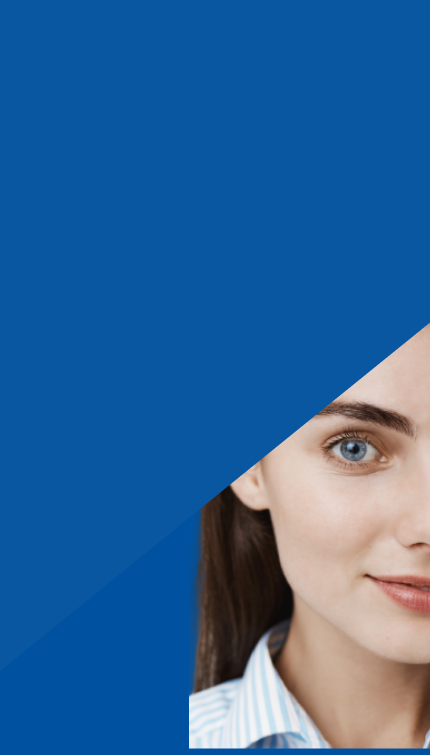
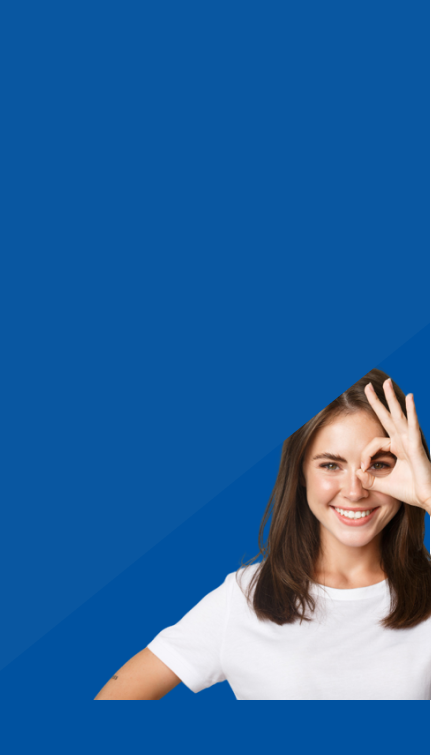
Completed ticket 675

Changed region(s): [[0.2116, 0.0, 1.0, 1.0]]

diff --git a/src/components/page-sections/Masthead/Masthead3.tsx b/src/components/page-sections/Masthead/Masthead3.tsx
@@ -20,7 +20,7 @@ interface Masthead3Props {
  */
 const Masthead3 = ({ title, subTitle, image }: Masthead3Props): JSX.Element => {
     return (
-        <div className="relative grid min-h-[74rem] content-start md:min-h-max md:grid-cols-2">
+        <div className="relative grid min-h-[74rem] content-start md:min-h-max md:grid-cols-2 md:gap-12 lg:gap-20 xl:grid-cols-[auto_1fr] xl:gap-32">
             <Image
                 src={MastheadImageSmall}
                 alt=""
@@ -39,12 +39,12 @@ const Masthead3 = ({ title, subTitle, image }: Masthead3Props): JSX.Element => {
 
             <Image
                 src={image}
-                width={989}
-                height={735}
-                quality={100}
+                width={810}
+                height={600}
+                unoptimized
                 priority={true}
                 alt=""
-                className="col-start-2 row-span-2 row-start-1 hidden self-stretch object-cover object-[-25rem_center] md:block lg:object-[-12rem_center] xl:justify-self-end xl:object-center"
+                className="col-start-2 row-span-2 row-start-2 hidden self-stretch object-cover md:block md:justify-self-end xl:row-start-1 xl:self-end xl:justify-self-end xl:object-center"
             />
 
             <div className="grid content-start px-8 pt-12 md:pt-24 lg:pl-12 xl:pt-40 xl:pl-[calc(calc(100vw_-_var(--container-width))_/_2)]">
@@ -90,7 +90,7 @@ const Masthead3 = ({ title, subTitle, image }: Masthead3Props): JSX.Element => {
             <Link
                 href="/suitability-check"
                 title="Free suitability check"
-                className="sitemap-link group/link mt-12 grid w-full max-w-[55.5rem] grid-cols-[auto_1fr] content-start gap-1 rounded-tr-[6rem] bg-[#003E79] py-10 px-8 pr-16 lg:pl-12 xl:col-span-2 xl:col-start-1 xl:row-start-2 xl:self-end xl:pl-[calc(calc(100vw_-_var(--container-width))_/_2)] 2xl:max-w-[80rem]"
+                className="sitemap-link group/link mt-12 grid w-full max-w-[55.5rem] grid-cols-[auto_1fr] content-start gap-1 rounded-tr-[6rem] bg-[#003E79] py-10 px-8 pr-16 md:row-span-2 md:self-end lg:pl-12 xl:col-span-2 xl:col-start-1 xl:row-span-1 xl:row-start-2 xl:self-end xl:pl-[calc(calc(100vw_-_var(--container-width))_/_2)] 2xl:max-w-[80rem]"
             >
                 <span className="flex items-center justify-start gap-4">
                     <span className="h-[1.2rem] w-[1.2rem] rounded-full bg-[#00BFFF]"></span>
@@ -122,7 +122,7 @@ const Masthead3 = ({ title, subTitle, image }: Masthead3Props): JSX.Element => {
  */
 const Reviews = (): JSX.Element => {
     return (
-        <div className="relative z-[2] mx-8 mt-24 grid w-full max-w-[22.7rem] place-items-center gap-7 overflow-hidden rounded-[0.5rem] bg-white p-8 shadow-shadow1 md:col-start-2 md:row-span-2 md:row-start-1 md:max-w-[36.1rem] md:self-end lg:self-center xl:justify-self-center xl:px-0 xl:pt-24 xl:pb-0">
+        <div className="relative z-[2] mx-8 mt-24 grid w-full max-w-[22.7rem] place-items-center gap-7 overflow-hidden rounded-[0.5rem] bg-white p-8 shadow-shadow1 md:mx-0 md:max-w-[36.1rem] md:self-end lg:col-start-2 lg:row-span-2 lg:row-start-1 lg:self-start xl:mt-[10rem] xl:justify-self-start xl:px-0 xl:pt-24 xl:pb-0">
             <div className="flex flex-wrap items-end justify-start gap-10 md:justify-center">
                 {/* Review 1 */}
                 <div className="grid grid-cols-1 place-items-center gap-4 rounded-[0.5rem] md:w-full md:max-w-[19.8rem] md:py-4 md:shadow-shadow1 xl:gap-2">

diff --git a/src/pages/icl/index.tsx b/src/pages/icl/index.tsx
@@ -505,9 +505,7 @@ export default function Icl({ seo, yoastJson, data }: IclProps): JSX.Element {
                         }
                         descriptions={
                             (data?.sustainability_section?.plastic_free_life?.descriptions?.length &&
-                                stringArrayToElementArray(
-                                    data?.sustainability_section?.plastic_free_life?.descriptions
-                                )) || [
+                                data?.sustainability_section?.plastic_free_life?.descriptions) || [
                                 `The most sustainable, green living lifestyle is when you have a plastic free eye-style.
                                  When you have Implantable Contact Lenses you are saying goodbye to the continuous plastic
                                  waste produced by glasses and contact lenses!`
@@ -535,19 +533,17 @@ export default function Icl({ seo, yoastJson, data }: IclProps): JSX.Element {
                         }
                         descriptions={
                             (data?.sustainability_section?.gift_of_a_tree?.descriptions?.length &&
-                                stringArrayToElementArray(
-                                    data?.sustainability_section?.gift_of_a_tree?.descriptions
-                                )) || [
+                                data?.sustainability_section?.gift_of_a_tree?.descriptions) || [
                                 `When undergoing laser eye surgery, you may not realize it but you are already making a positive
                          difference to the environment. For every 10 years of contact lens wearing the amount of plastic
                           that ends up in the ocean is roughly the same as your own body weight.`,
-                                <span className="font-latoBold text-[2rem] normal-case leading-[2.4rem]">
+                                `<span class="font-latoBold text-[2rem] normal-case leading-[2.4rem]">
                                     Our gift to you…
-                                </span>,
+                                </span>`,
                                 `We want to take our impact on the environment a step further and this is where the gift of a tree comes in!`,
-                                <span className="font-latoBold text-[2rem] normal-case leading-[2.4rem]">
+                                `<span class="font-latoBold text-[2rem] normal-case leading-[2.4rem]">
                                     Here at My-iClinic we give all of our laser patients a real forest tree!
-                                </span>,
+                                </span>`,
                                 `Over your tree’s long life, you can visit it, introduce it to your family and track its growth and
                          value! Over the lifetime of the tree, it will more than offset the carbon you've used with your
                           contacts/glasses. When the tree is harvested, its value will be yours and new trees are planted

diff --git a/src/pages/lasik-london/index.tsx b/src/pages/lasik-london/index.tsx
@@ -507,9 +507,7 @@ export default function Lasik({ seo, yoastJson, data }: LasikProps): JSX.Element
                         }
                         descriptions={
                             (data?.sustainability_section?.plastic_free_life?.descriptions?.length &&
-                                stringArrayToElementArray(
-                                    data?.sustainability_section?.plastic_free_life?.descriptions
-                                )) || [
+                                data?.sustainability_section?.plastic_free_life?.descriptions) || [
                                 `The most sustainable, green living lifestyle is when you have a plastic free eye-style. When you have Implantable Contact Lenses you are saying goodbye to the continuous plastic waste produced by glasses and contact lenses!`
                             ]
                         }
@@ -571,19 +569,17 @@ export default function Lasik({ seo, yoastJson, data }: LasikProps): JSX.Element
                         }
                         descriptions={
                             (data?.sustainability_section?.gift_of_a_tree?.descriptions?.length &&
-                                stringArrayToElementArray(
-                                    data?.sustainability_section?.gift_of_a_tree?.descriptions
-                                )) || [
+                                data?.sustainability_section?.gift_of_a_tree?.descriptions) || [
                                 `When undergoing laser eye surgery, you may not realize it but you are already making a positive
                          difference to the environment. For every 10 years of contact lens wearing the amount of plastic
                           that ends up in the ocean is roughly the same as your own body weight.`,
-                                <span className="font-latoBold text-[2rem] normal-case leading-[2.4rem]">
+                                ` <span class="font-latoBold text-[2rem] normal-case leading-[2.4rem]">
                                     Our gift to you…
-                                </span>,
+                                </span>`,
                                 `We want to take our impact on the environment a step further and this is where the gift of a tree comes in!`,
-                                <span className="font-latoBold text-[2rem] normal-case leading-[2.4rem]">
+                                ` <span class="font-latoBold text-[2rem] normal-case leading-[2.4rem]">
                                     Here at My-iClinic we give all of our laser patients a real forest tree!
-                                </span>,
+                                </span>`,
                                 `Over your tree’s long life, you can visit it, introduce it to your family and track its growth and
                          value! Over the lifetime of the tree, it will more than offset the carbon you've used with your
                           contacts/glasses. When the tree is harvested, its value will be yours and new trees are planted

diff --git a/src/components/Header/NavLink.tsx b/src/components/Header/NavLink.tsx
@@ -32,7 +32,7 @@ const NavLink = ({ menu, router }: NavLinkInterface): JSX.Element => {
             }`}
         >
             {/* Parent menus */}
-            <ParentMenuItem router={router} menu={menu}/>
+            <ParentMenuItem router={router} menu={menu} />
 
             {/* Submenus */}
             {menu.submenu?.length && (
@@ -45,7 +45,7 @@ const NavLink = ({ menu, router }: NavLinkInterface): JSX.Element => {
                         />
                     )}
 
-                    {menu.slug === 'vision-correction' && <SubMenu router={router} submenu={menu.submenu}/>}
+                    {menu.slug === 'vision-correction' && <SubMenu router={router} submenu={menu.submenu} />}
 
                     {menu.slug === 'eye-treatments' && (
                         <EyeTreatments
@@ -89,7 +89,7 @@ const NavLink = ({ menu, router }: NavLinkInterface): JSX.Element => {
                                             name: 'Financing your treatment',
                                             url: '/pricing-and-financing/financing-your-treatment',
                                             slug: 'pricing-and-financing/financing-your-treatment',
-                                            metaDescription: 'Keep existing'
+                                            metaDescription: 'Tailored plans to suit your budget'
                                         }
                                     ]
                                 },
@@ -154,7 +154,7 @@ const NavLink = ({ menu, router }: NavLinkInterface): JSX.Element => {
                         />
                     )}
 
-                    {menu.slug === 'our-specialists' && <OurSpecialists router={router}/>}
+                    {menu.slug === 'our-specialists' && <OurSpecialists router={router} />}
                 </>
             )}
         </li>
@@ -179,7 +179,7 @@ const ParentMenuItem = ({ menu, router }: { menu: NavMenuType; router: NextRoute
             {menu.submenu ? (
                 <>
                     {menu.slug === 'our-specialists' ? (
-                        <SpecialistMenu isMenuActive={isMenuActive}/>
+                        <SpecialistMenu isMenuActive={isMenuActive} />
                     ) : (
                         <>
                             <span
@@ -211,8 +211,7 @@ const ParentMenuItem = ({ menu, router }: { menu: NavMenuType; router: NextRoute
                     {menu.name}
 
                     {isMenuActive && (
-                        <span
-                            className="absolute left-0 top-full h-1 w-full translate-y-4 rounded-full bg-[#9B9FA1]"></span>
+                        <span className="absolute left-0 top-full h-1 w-full translate-y-4 rounded-full bg-[#9B9FA1]"></span>
                     )}
                 </Link>
             )}

diff --git a/src/components/page-sections/Sustainibility/ClimateChange.tsx b/src/components/page-sections/Sustainibility/ClimateChange.tsx
@@ -1,5 +1,4 @@
 import { SideImageSection } from '@/components/page-sections';
-import { stringArrayToElementArray } from '@/utils/apiHelpers';
 
 interface ClimateChangeProps {
     h2Heading: string | undefined;
@@ -40,27 +39,27 @@ const ClimateChange = ({
             }}
             imageYPosition="bottom"
             descriptions={
-                (descriptions?.length && stringArrayToElementArray(descriptions)) || [
-                    <span className="block font-latoBold text-[2rem] leading-[2.4rem] text-heading md:mt-24">
+                (descriptions?.length && descriptions) || [
+                    `<span class="block font-latoBold text-[2rem] leading-[2.4rem] text-heading md:mt-24">
                         Did you know that blurry
                         <br /> vision is rapidly rising?
-                    </span>,
-                    <p>We call this ‘Myopia’ but you might already know Myopia as ‘Nearsightedness’.</p>,
-                    <p>
+                    </span>`,
+                    `<p>We call this ‘Myopia’ but you might already know Myopia as ‘Nearsightedness’.</p>`,
+                    `<p>
                         By 2050 the World Health Organization predicts 4.9 million people will suffer from Myopia which
                         not only affects people's natural sight and quality of life, but also contributes to the masses
                         of plastic waste in our climate.
-                    </p>,
-                    <span className="mt-6 font-latoBold text-[2rem] leading-[2.4rem] text-heading">
+                    </p>`,
+                    `<span class="mt-6 font-latoBold text-[2rem] leading-[2.4rem] text-heading">
                         All of our My-iClinic
                         <br />
                         specialists are very climate conscious
-                    </span>,
-                    <p>
+                    </span>`,
+                    ` <p>
                         We understand how vision correction treatment is a healthier and natural way to not only restore
                         your clear vision, but as an opportunity to see our climate become clean and bright for future
                         generations to come!
-                    </p>
+                    </p>`
                 ]
             }
         />

diff --git a/src/components/Accordion/faq/FaqItem.tsx b/src/components/Accordion/faq/FaqItem.tsx
@@ -1,5 +1,4 @@
 import { getElementTopPosition, stripInitialTags } from '@/utils/miscellaneous';
-import HTMLReactParser from 'html-react-parser';
 import Image from 'next/image';
 import { useRef, useState } from 'react';
 import styles from './styles/FaqItem.module.scss';
@@ -26,6 +25,8 @@ const FaqItem = ({ accordion, index }: AccordionItemInterface): JSX.Element => {
     const [expanded, setExpanded] = useState<boolean>(index === 0);
     const descriptionRef = useRef<HTMLDivElement | null>(null);
 
+    const windowWidth = window.innerWidth;
+
     return (
         <div
             className={`${styles.styles} grid grid-cols-[auto_1fr] content-start gap-x-12 gap-y-10 transition-all duration-1000`}
@@ -33,7 +34,9 @@ const FaqItem = ({ accordion, index }: AccordionItemInterface): JSX.Element => {
             <span
                 onClick={() => {
                     setExpanded(!expanded);
-                    window.scrollTo(0, getElementTopPosition(descriptionRef.current) - 300);
+                    if (windowWidth < 600) {
+                        window.scrollTo(0, getElementTopPosition(descriptionRef.current) - 300);
+                    }
                 }}
                 className="grid cursor-pointer place-items-start"
             >
@@ -80,7 +83,7 @@ const FaqItem = ({ accordion, index }: AccordionItemInterface): JSX.Element => {
                     !expanded ? 'max-h-[2.5rem]' : 'max-h-[300rem]'
                 } transition-all duration-1000`}
             >
-                <p>{HTMLReactParser(stripInitialTags(description))}</p>
+                <p dangerouslySetInnerHTML={{ __html: stripInitialTags(description) }}></p>
                 <div className={`mt-20 ${expanded ? 'w-full' : 'w-0'} transition-all duration-1000`}>
                     <div className="relative h-4 w-full">
                         <Image src="/images/icons/icon-pin-long.svg" quality={70} alt="" fill className="w-full" />

diff --git a/src/pages/glaucoma-treatment/index.tsx b/src/pages/glaucoma-treatment/index.tsx
@@ -431,9 +431,7 @@ export default function GlaucomaPage({ seo, yoastJson, data }: GlaucomaPageProps
                         )}
                         descriptions={
                             (data?.sustainability_section?.plastic_free_life?.descriptions?.length &&
-                                stringArrayToElementArray(
-                                    data?.sustainability_section.plastic_free_life.descriptions
-                                )) || [
+                                data?.sustainability_section.plastic_free_life.descriptions) || [
                                 `The most sustainable, green lifestyle to have is when you have a plastic free eye-style,
                     free of plastic waste from your glasses and contact lenses!`
                             ]
@@ -454,9 +452,7 @@ export default function GlaucomaPage({ seo, yoastJson, data }: GlaucomaPageProps
                         )}
                         descriptions={
                             (data?.sustainability_section?.gift_of_a_tree?.descriptions.length &&
-                                stringArrayToElementArray(
-                                    data?.sustainability_section.gift_of_a_tree.descriptions
-                                )) || [
+                                data?.sustainability_section.gift_of_a_tree.descriptions) || [
                                 `Here at My-iClinic we give all of our laser patients a very special gift to go with your brand-new eyes,
                     a tree! When undergoing laser eye surgery, you may not realize but you are already making a positive difference to the environment.`,
                                 `For every 10 years of contact lens wear the amount of plastic that ends up in the ocean is roughly the same as your own body weight.`

diff --git a/src/components/Header/MobileNavbar/NavMenu.tsx b/src/components/Header/MobileNavbar/NavMenu.tsx
@@ -100,7 +100,7 @@ const NavMenu = ({ setOpenMobileMenu }: NavMenuProps): JSX.Element => {
                                                         name: 'Financing your treatment',
                                                         url: '/pricing-and-financing/financing-your-treatment',
                                                         slug: 'pricing-and-financing/financing-your-treatment',
-                                                        metaDescription: 'Keep existing'
+                                                        metaDescription: 'Tailored plans to suit your budget'
                                                     }
                                                 ]
                                             },
@@ -185,7 +185,7 @@ const NavMenu = ({ setOpenMobileMenu }: NavMenuProps): JSX.Element => {
                                 )}
 
                                 {menu.slug === 'our-specialists' && (
-                                    <OurSpecialistsMobile router={router} setOpenMobileMenu={setOpenMobileMenu}/>
+                                    <OurSpecialistsMobile router={router} setOpenMobileMenu={setOpenMobileMenu} />
                                 )}
                             </div>
                         )}
@@ -272,8 +272,7 @@ const ParentMenuItem = ({ menu, router, setOpenMobileMenu, appCtx, index }: Pare
                     {menu.name}
 
                     {isMenuActive && (
-                        <span
-                            className="absolute left-0 top-full h-1 w-full translate-y-4 rounded-full bg-[#09F]"></span>
+                        <span className="absolute left-0 top-full h-1 w-full translate-y-4 rounded-full bg-[#09F]"></span>
                     )}
                 </Link>
             )}

diff --git a/src/pages/presbyond-london/index.tsx b/src/pages/presbyond-london/index.tsx
@@ -543,9 +543,7 @@ export default function Presbyond({ seo, yoastJson, data }: PresbyondProps): JSX
                         }
                         descriptions={
                             (data?.sustainability_section?.plastic_free_life?.descriptions?.length &&
-                                stringArrayToElementArray(
-                                    data?.sustainability_section.plastic_free_life.descriptions
-                                )) || [
+                                data?.sustainability_section.plastic_free_life.descriptions) || [
                                 `The most sustainable, green lifestyle to have is when you have a plastic free eye-style,
                     free of plastic waste from your glasses and contact lenses!`
                             ]
@@ -566,9 +564,7 @@ export default function Presbyond({ seo, yoastJson, data }: PresbyondProps): JSX
                         )}
                         descriptions={
                             (data?.sustainability_section?.gift_of_a_tree?.descriptions.length &&
-                                stringArrayToElementArray(
-                                    data?.sustainability_section.gift_of_a_tree.descriptions
-                                )) || [
+                                data?.sustainability_section.gift_of_a_tree.descriptions) || [
                                 `When undergoing laser eye surgery, you may not realize it but you are already making a positive
                      difference to the environment. For every 10 years of contact lens wearing the amount of plastic
                       that ends up in the ocean is roughly the same as your own body weight.`,

diff --git a/src/components/page-sections/LeftRight/leftRightList.tsx b/src/components/page-sections/LeftRight/leftRightList.tsx
@@ -2248,7 +2248,7 @@ export const leftRightListCornealTreatments: Array<LeftRightSectionChildrenInter
     {
         mobileImage: (
             <Image
-                src="/images/section-images/placeholder-image.png"
+                src="/images/section-images/CAIRS.jpg"
                 width={390}
                 height={390}
                 quality={70}
@@ -2258,7 +2258,7 @@ export const leftRightListCornealTreatments: Array<LeftRightSectionChildrenInter
         ),
         desktopImage: (
             <Image
-                src="/images/section-images/placeholder-image.png"
+                src="/images/section-images/CAIRS.jpg"
                 width={711}
                 height={522}
                 quality={70}
@@ -2328,7 +2328,7 @@ export const leftRightListCornealTreatments: Array<LeftRightSectionChildrenInter
     {
         mobileImage: (
             <Image
-                src="/images/section-images/placeholder-image.png"
+                src="/images/section-images/DMEK.jpg"
                 width={390}
                 height={390}
                 quality={70}
@@ -2338,7 +2338,7 @@ export const leftRightListCornealTreatments: Array<LeftRightSectionChildrenInter
         ),
         desktopImage: (
             <Image
-                src="/images/section-images/placeholder-image.png"
+                src="/images/section-images/DMEK.jpg"
                 width={544}
                 height={392}
                 quality={70}

diff --git a/src/components/page-sections/SectionParts/TextColumn.tsx b/src/components/page-sections/SectionParts/TextColumn.tsx
@@ -70,10 +70,16 @@ const TextColumn = ({
                             {descriptions.map((desc, index) => {
                                 return paragraphAnimation ? (
                                     <FadeIn key={index}>
-                                        <div>{desc}</div>
+                                        <div dangerouslySetInnerHTML={{ __html: desc as string }}></div>
                                     </FadeIn>
                                 ) : (
-                                    <div key={index} dangerouslySetInnerHTML={{ __html: desc as string }}></div>
+                                    <>
+                                        {typeof desc === 'string' ? (
+                                            <div key={index} dangerouslySetInnerHTML={{ __html: desc as string }}></div>
+                                        ) : (
+                                            <div key={index}>{desc}</div>
+                                        )}
+                                    </>
                                 );
                             })}
                         </div>

diff --git a/src/components/page-sections/Faq/Faq.tsx b/src/components/page-sections/Faq/Faq.tsx
@@ -2,6 +2,7 @@ import { Accordion } from '@/components/Accordion';
 import { Container } from '@/components/Container';
 import { FaqListInterface } from '@/components/page-sections/Faq/faqList';
 import { Section } from '@/components/Section';
+import { stripInitialTags } from '@/utils/miscellaneous';
 import { ReactNode, useState } from 'react';
 import FaqSearch from './FaqSearch';
 
@@ -55,7 +56,7 @@ const Faq = ({ faqs, titleLight, titleBold, description }: FaqInterface): JSX.El
                         </strong>
                     </h2>
                     <p className="mt-16 text-center font-mulishLight text-[1.8rem] leading-[3.2rem] sm:text-[2rem] sm:leading-[2.8rem] md:mt-24">
-                        {description}
+                        {typeof description === 'string' ? stripInitialTags(description) : description}
                     </p>
 
                     <FaqSearch filterFaq={filterFaq} />
